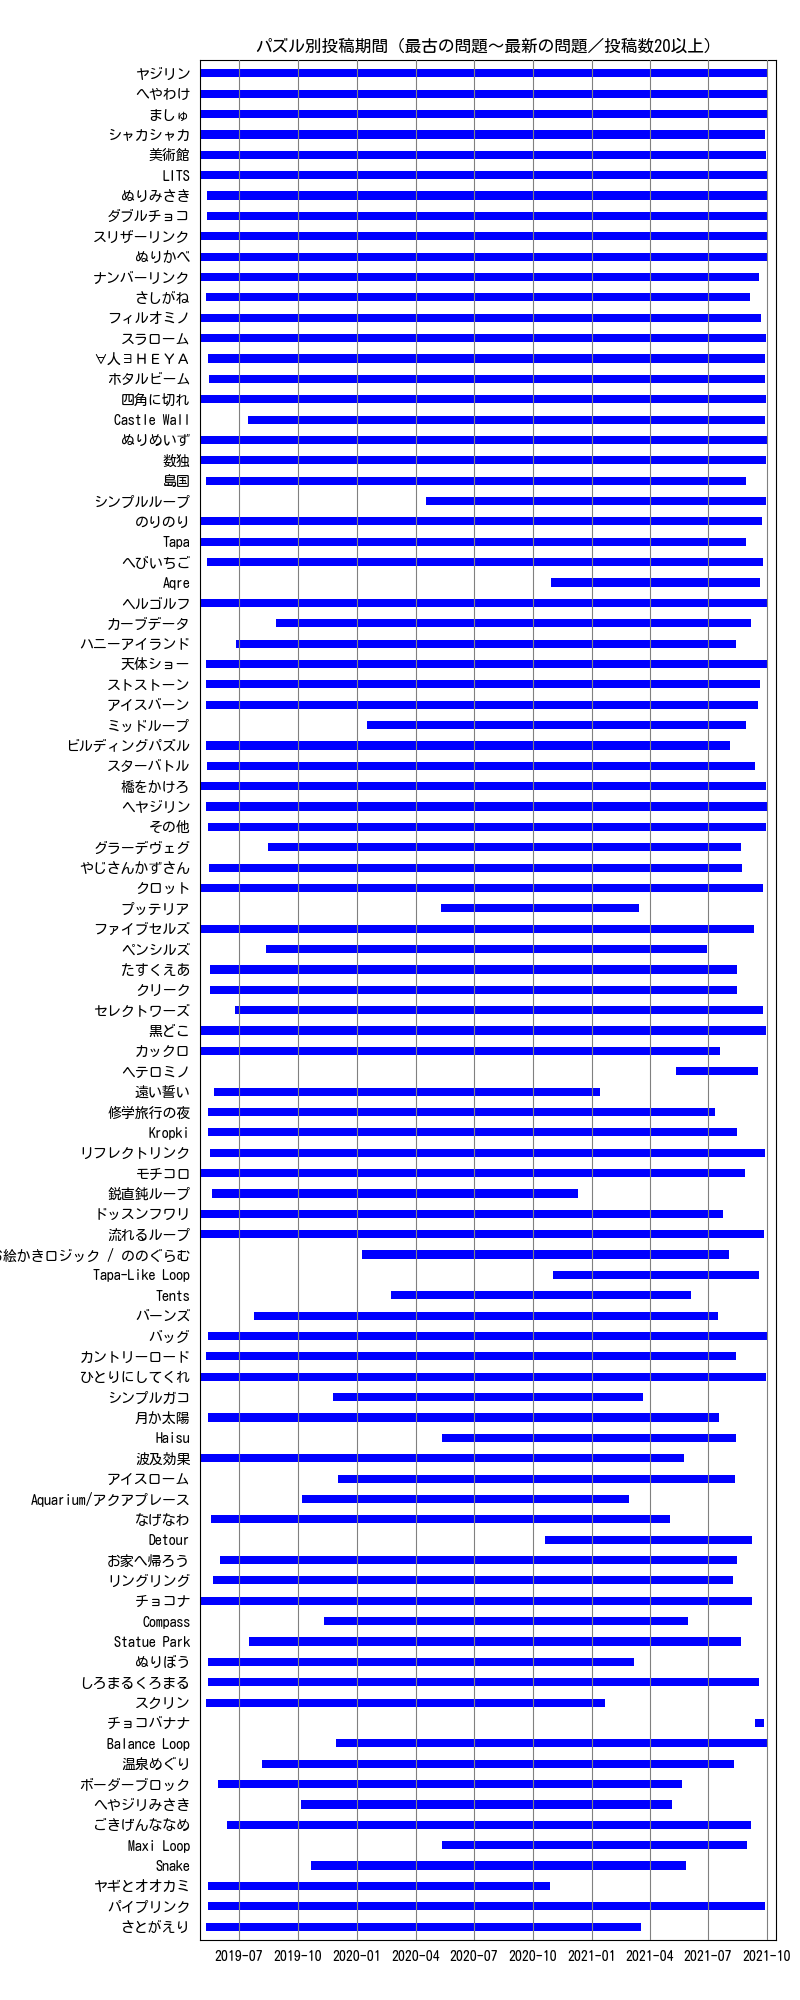
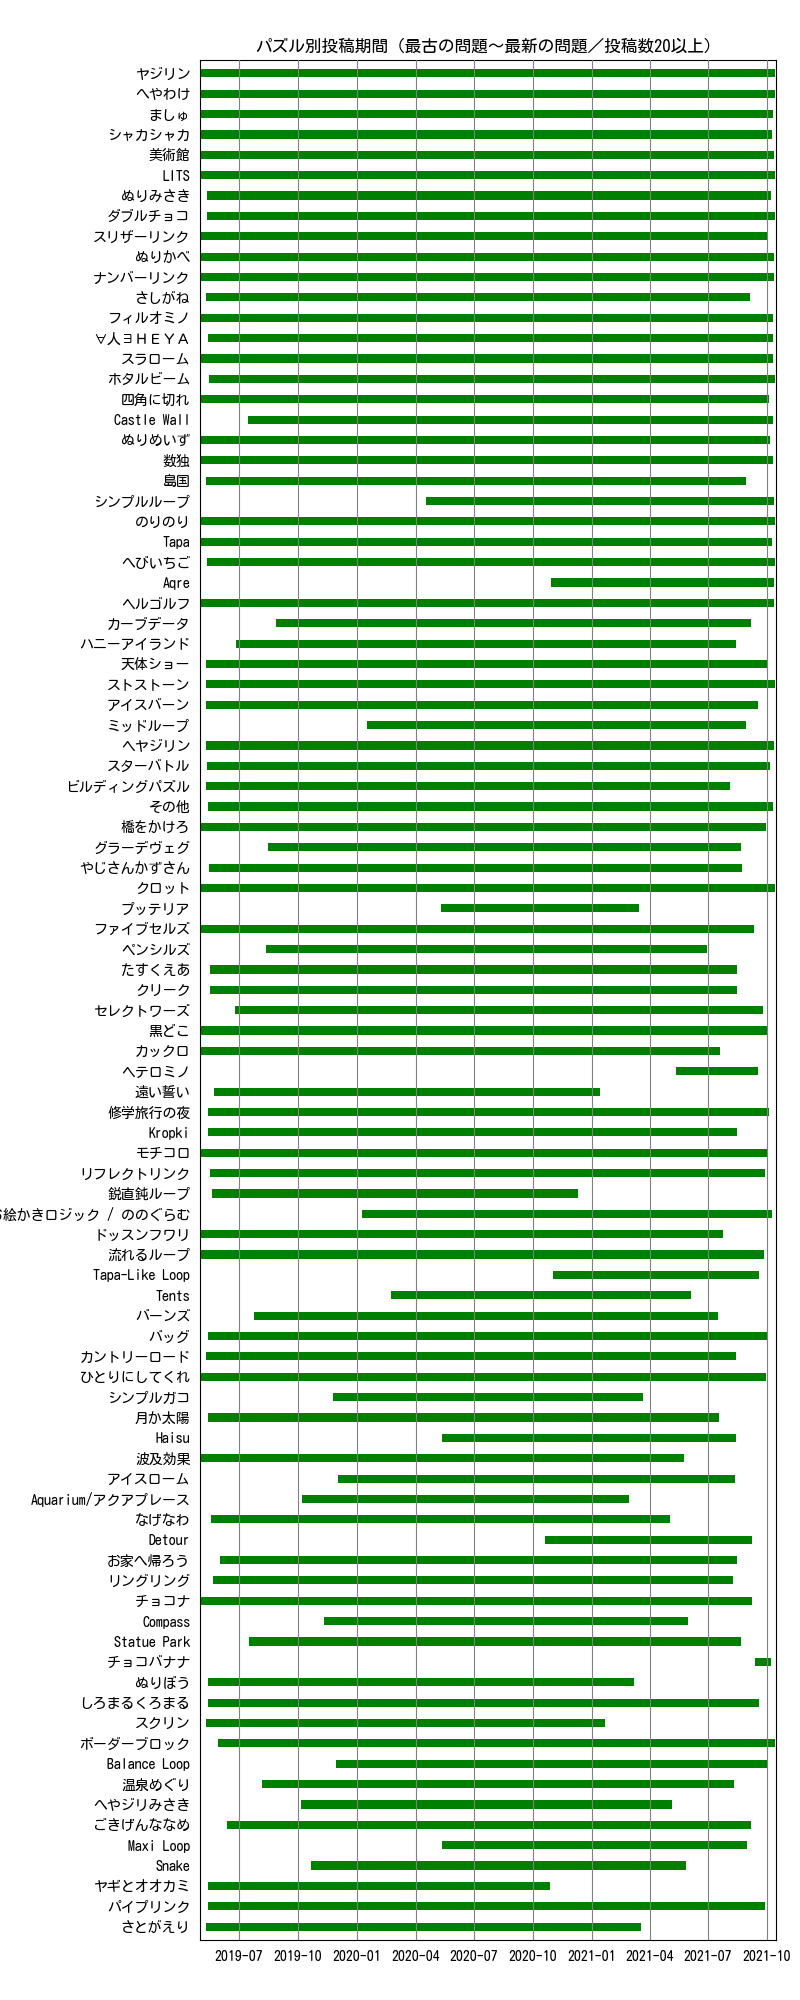
グラフの色をそろえる

diff --git a/python/graph-span.py b/python/graph-span.py
@@ -60,7 +60,7 @@ def plot_span_categories(data: dict, is_author: bool):
     pyplot.xlabel("")
 
     x, y1, y2 = get_span_categories(data, is_author, limit)
-    pyplot.barh(x, y2, color="blue", height=0.4)
+    pyplot.barh(x, y2, color="green", height=0.4)
     pyplot.barh(x, y1, color="white", height=0.4)
     fig.savefig("graph/" + image_name)
 
